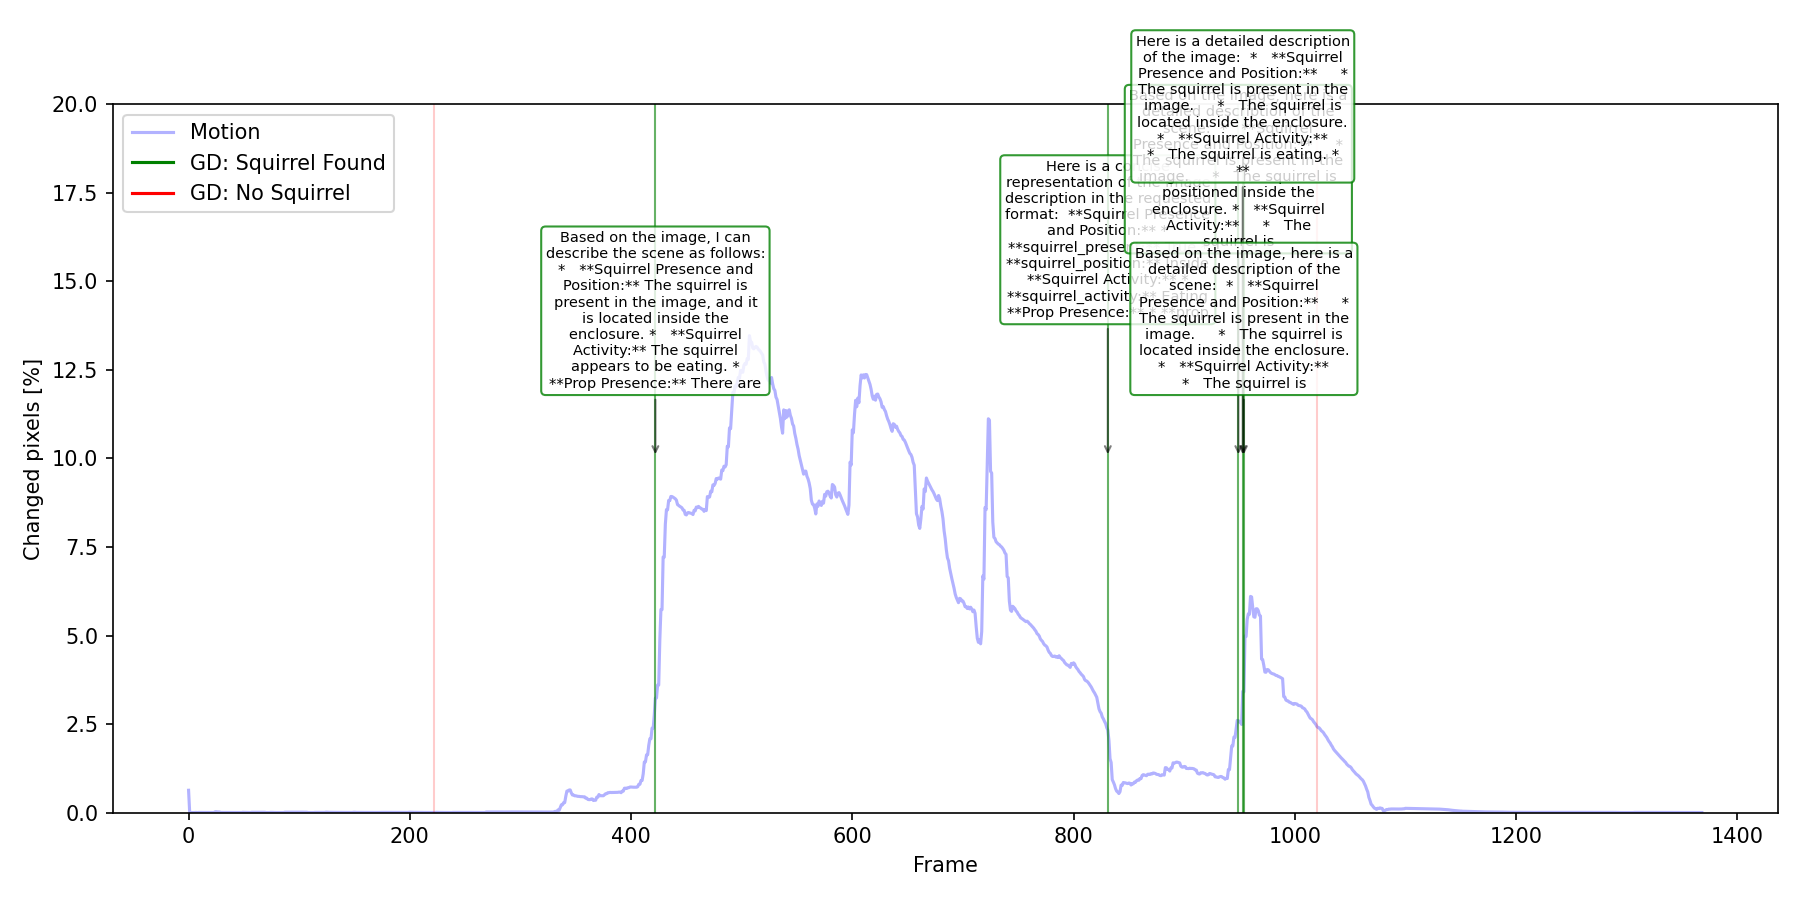
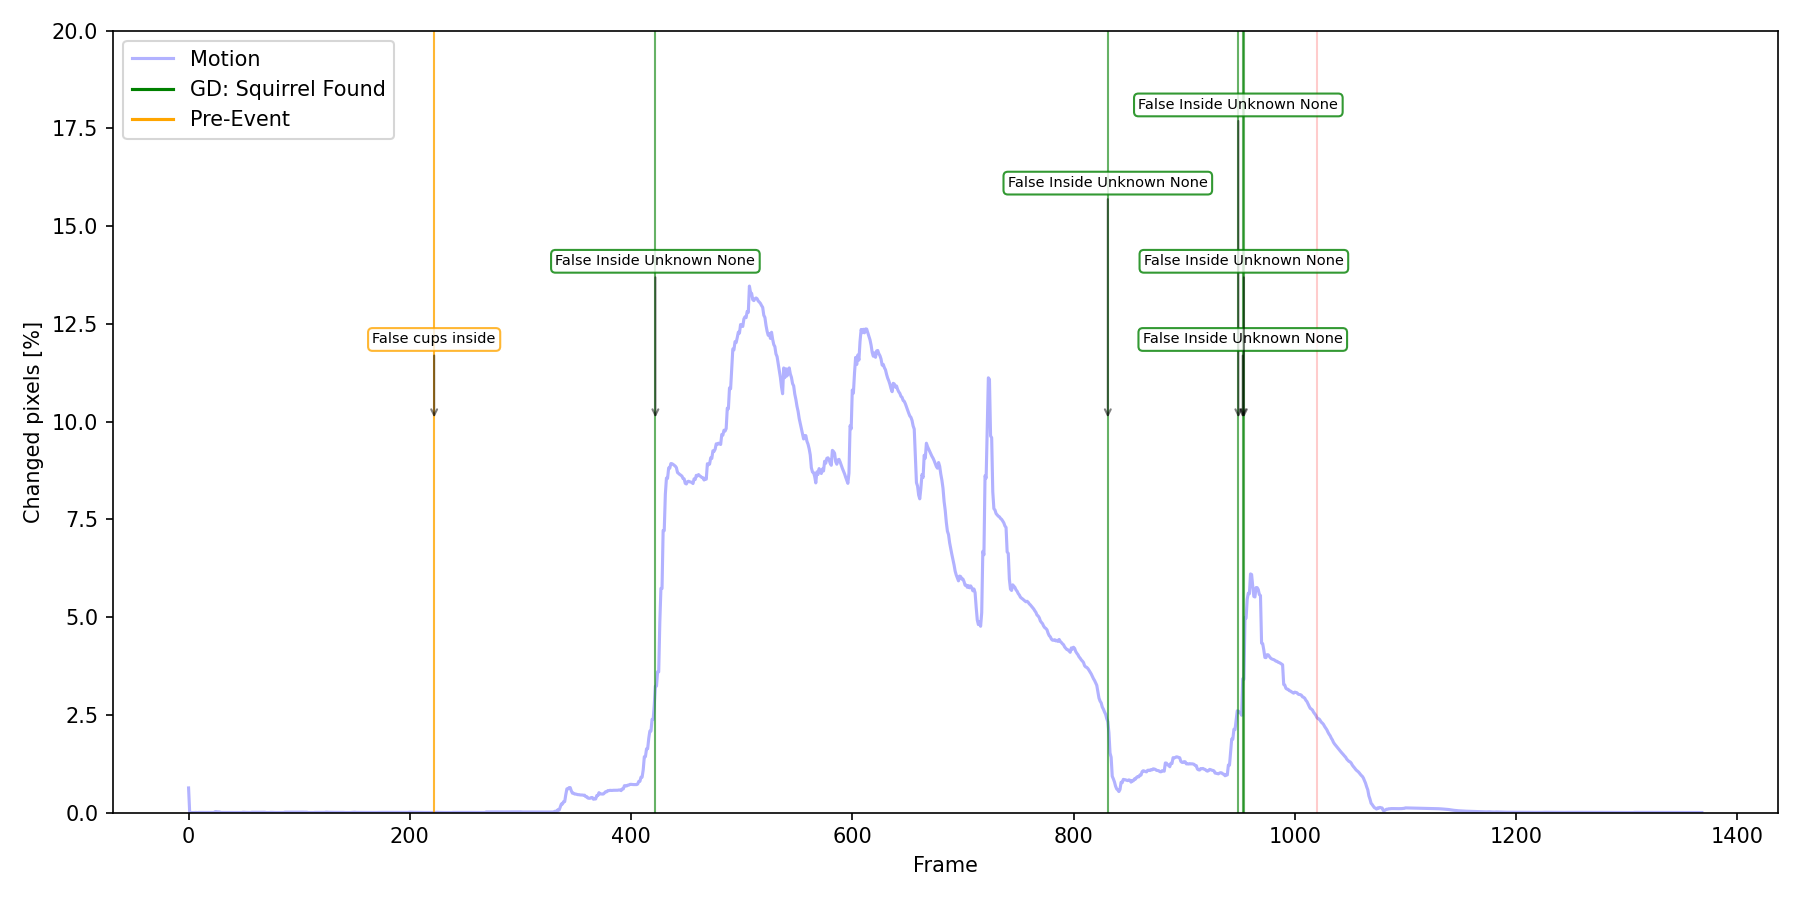
Prior llama classif

diff --git a/sess_2/run_llama.py b/sess_2/run_llama.py
@@ -6,80 +6,125 @@ import textwrap
 
 print("################ START RUNNING LLAMA DESCRIPTION & PLOTTING ################")
 
-INPUT_DIR       = "sess_2/motion_frames"
-GD_REPORT_JSON  = "sess_2/detections_report.json"
-FINAL_REPORT    = "sess_2/combined_report.json"
-SERIES_CSV      = "sess_2/changed_series.csv"
-OUT_PNG         = "sess_2/final_marked_described.png"
+INPUT_DIR = "sess_2/motion_frames"
+GD_REPORT_JSON = "sess_2/detections_report.json"
+FINAL_REPORT = "sess_2/combined_report.json"
+SERIES_CSV = "sess_2/changed_series.csv"
+OUT_PNG = "sess_2/final_marked_described.png"
+
+PRE_PROMPT_TEXT = ("""
+    Return a classification of the picture in the following schema: Only return the values, no extra text. Only choose one value per field.
+    No ** or other markdown formatting. Not title or anything adding, just the following:
+
+    squirrel_present: <True/False>
+    prop_research_type: <disco ball/nut/cups/none> 
+    view: <inside/outside>
+""")
 
 PROMPT_TEXT = ("""
-    Return a classification of the picture in the following schema:
+    Return a classification of the picture in the following schema: Only return the values, no extra text. Only choose one value per field.
+    No ** or other markdown formatting. Not title or anything adding, just the following:
                
     squirrel_present: <True/False>
     squirrel_position: <Inside/Door/Outside/Unknown>
     squirrel_activity: <Eating/Climbing/Running/Resting/Unknown>
     prop_present: <Disco ball/Nut/Cups>
-    prop_used: <Cup flipped/Nut eaten/Disco ball spinning/Unknown>
+    prop_used: <Cup flipped/Nut eaten/None>
 
 """)
 
 client = Client("huggingface-projects/llama-3.2-vision-11B")
 
-if not os.path.exists(GD_REPORT_JSON):
-    raise FileNotFoundError(f"Bitte zuerst run_gd.py ausführen! {GD_REPORT_JSON} fehlt.")
+# 1. Load existing GD Report
+if os.path.exists(GD_REPORT_JSON):
+    with open(GD_REPORT_JSON, "r", encoding="utf-8") as f:
+        gd_data = json.load(f)
+else:
+    gd_data = []
 
-with open(GD_REPORT_JSON, "r", encoding="utf-8") as f:
-    gd_data = json.load(f)
-
-gd_lookup = {item['frame']: item for item in gd_data}
+report_map = {item['frame']: item for item in gd_data}
 
 image_paths = sorted([p for ext in ("*.jpg","*.jpeg","*.png") 
                       for p in glob.glob(os.path.join(INPUT_DIR, ext))])
 
-final_report = []
 frame_re = re.compile(r"(\d+)")
 
-print(f"Verarbeite Bilder basierend auf GD-Ergebnissen...")
+print(f"Processing images and updating report...")
 
 for p in image_paths:
     base = os.path.splitext(os.path.basename(p))[0]
     m = frame_re.search(base)
     frame_num = int(m.group(1)) if m else None
     
-    gd_info = gd_lookup.get(frame_num)
-    
-    description = None
-    squirrel_detected = False
+    if frame_num is None: 
+        continue
 
-    if gd_info:
-        squirrel_detected = gd_info.get("squirrel_detected", False)
+    is_pre = "_pre" in base
+    
+    # Ensure entry exists
+    if frame_num not in report_map:
+        report_map[frame_num] = {"frame": frame_num}
+    
+    entry = report_map[frame_num]
+    entry["image_name"] = os.path.basename(p)
+    entry["is_pre_event"] = is_pre
+
+    # --- PATH A: Pre-Event Image ---
+    if is_pre:
+        print(f"Frame {frame_num} (Pre-Event): Asking Llama...")
+        try:
+            result = client.predict(
+                message={"text": PRE_PROMPT_TEXT, "files": [handle_file(p)]},
+                max_new_tokens=60,
+                api_name="/chat"
+            )
+            desc = result.strip()
+            print(f" -> {desc}")
+            entry["pre_description"] = desc
+        except Exception as e:
+            print(f"Error Pre-Frame {frame_num}: {e}")
+            entry["pre_description"] = "Error"
+
+    # --- PATH B: Standard Event ---
+    else:
+        squirrel_detected = entry.get("squirrel_detected", False)
         
         if squirrel_detected:
+            print(f"Frame {frame_num}: Squirrel detected. Asking Llama...")
             try:
-                print(f"Frame {frame_num}: Squirrel erkannt (GD). Frage Llama nach Beschreibung...")
                 result = client.predict(
                     message={"text": PROMPT_TEXT, "files": [handle_file(p)]},
                     max_new_tokens=60,
                     api_name="/chat"
                 )
-                description = result.strip()
-                print(f" -> {description}")
+                raw_output = result.strip()
+                print(f" -> {raw_output}")
+                
+                # Save raw output as fallback
+                entry["vlm_raw"] = raw_output
+                
+                # Robust Parsing
+                lines = raw_output.split('\n')
+                for line in lines:
+                    if ':' in line:
+                        key, val = line.split(':', 1)
+                        # Clean key (remove ** or spaces)
+                        clean_key = key.replace('*', '').strip()
+                        clean_val = val.strip()
+                        entry[clean_key] = clean_val
+                        
             except Exception as e:
-                print(f"Fehler bei Frame {frame_num}: {e}")
-                description = "Error generating description."
-    
-    final_report.append({
-        "frame": frame_num,
-        "image": os.path.basename(p),
-        "squirrel_detected": squirrel_detected,
-        "description": description
-    })
+                print(f"Error Frame {frame_num}: {e}")
 
-with open(FINAL_REPORT, "w", encoding="utf-8") as f:
-    json.dump(final_report, f, ensure_ascii=False, indent=2)
+# 2. Save Updated Report
+final_report_list = sorted(report_map.values(), key=lambda x: x['frame'])
 
+with open(GD_REPORT_JSON, "w", encoding="utf-8") as f:
+    json.dump(final_report_list, f, ensure_ascii=False, indent=2)
+    print(f"Updated {GD_REPORT_JSON} with VLM data.")
 
-print("Erstelle erweitertes Diagramm...")
+# --- PLOTTING ---
+print("Creating chart...")
 
 frames, values = [], []
 if os.path.exists(SERIES_CSV):
@@ -90,49 +135,83 @@ if os.path.exists(SERIES_CSV):
             frames.append(int(row[0]))
             values.append(float(row[1]))
 
-plt.figure(figsize=(12, 6)) 
+plt.figure(figsize=(12, 6))
 plt.plot(frames, values, linewidth=1.5, label="Motion Intensity", color='blue', alpha=0.3)
 plt.xlabel("Frame")
 plt.ylabel("Changed pixels [%]")
 plt.ylim(0, 20)
 
-text_height_cycle = [12, 14, 16, 18] 
+text_height_cycle = [12, 14, 16, 18]
 text_idx = 0
 
-for item in final_report:
+display_keys = [
+    "squirrel_present", 
+    "squirrel_position", 
+    "squirrel_activity", 
+    "prop_present", 
+    "prop_used"
+]
+
+for item in final_report_list:
     fr = item.get("frame")
-    if fr is None:
-        continue
+    if fr is None: continue
     
     is_squirrel = item.get("squirrel_detected")
-    desc = item.get("description")
+    is_pre = item.get("is_pre_event", False)
+    
+    # Construct Label
+    label_text = ""
+    if is_pre:
+        label_text = item.get("pre_description", "")
+    else:
+        # Try to build from keys first
+        lines = []
+        found_keys = False
+        for k in display_keys:
+            if k in item:
+                lines.append(f"{k}: {item[k]}")
+                found_keys = True
+        
+        if found_keys:
+            label_text = "\n".join(lines)
+        else:
+            # Fallback to raw output if keys missing but data exists
+            label_text = item.get("vlm_raw", "")
 
-    color = "g" if is_squirrel else "r"
-    alpha = 0.6 if is_squirrel else 0.2
+    # Determine Color
+    if is_pre:
+        color = "orange"
+        alpha = 0.8
+        box_ec = "orange"
+    else:
+        color = "g" if is_squirrel else "r"
+        alpha = 0.6 if is_squirrel else 0.2
+        box_ec = "green"
+
     plt.axvline(fr, color=color, linewidth=1, alpha=alpha)
 
-    if desc:
-        wrapped_desc = "\n".join(textwrap.wrap(desc, width=30))
-        
+    # Draw Text Box
+    if label_text:
+        wrapped_desc = "\n".join(textwrap.wrap(label_text, width=30))
         y_pos = text_height_cycle[text_idx % len(text_height_cycle)]
         
         plt.annotate(
-            wrapped_desc, 
+            wrapped_desc,
             xy=(fr, 10),
-            xytext=(fr, y_pos), 
+            xytext=(fr, y_pos),
             arrowprops=dict(facecolor='black', arrowstyle='->', alpha=0.5),
             fontsize=7,
             rotation=0,
             horizontalalignment='center',
-            bbox=dict(boxstyle="round,pad=0.3", fc="white", ec="green", alpha=0.8)
+            bbox=dict(boxstyle="round,pad=0.3", fc="white", ec=box_ec, alpha=0.8)
         )
         text_idx += 1
 
 leg_motion = mlines.Line2D([], [], color='blue', label='Motion', alpha=0.3)
 leg_true = mlines.Line2D([], [], color='g', label='GD: Squirrel Found')
-leg_false = mlines.Line2D([], [], color='r', label='GD: No Squirrel')
-plt.legend(handles=[leg_motion, leg_true, leg_false], loc="upper left", frameon=True)
+leg_pre = mlines.Line2D([], [], color='orange', label='Pre-Event')
 
+plt.legend(handles=[leg_motion, leg_true, leg_pre], loc="upper left", frameon=True)
 plt.tight_layout()
 plt.savefig(OUT_PNG, dpi=150)
-print(f"Fertig. Grafik mit Beschreibungen gespeichert unter: {OUT_PNG}")
+print(f"Done. Chart saved to: {OUT_PNG}")
